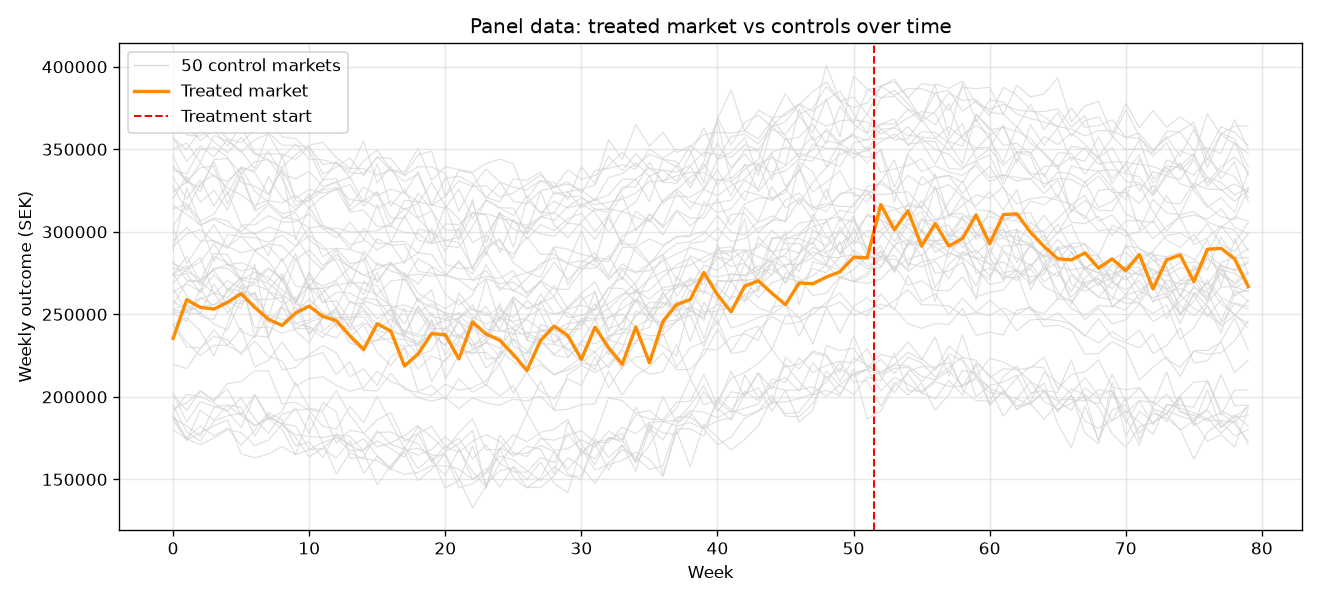
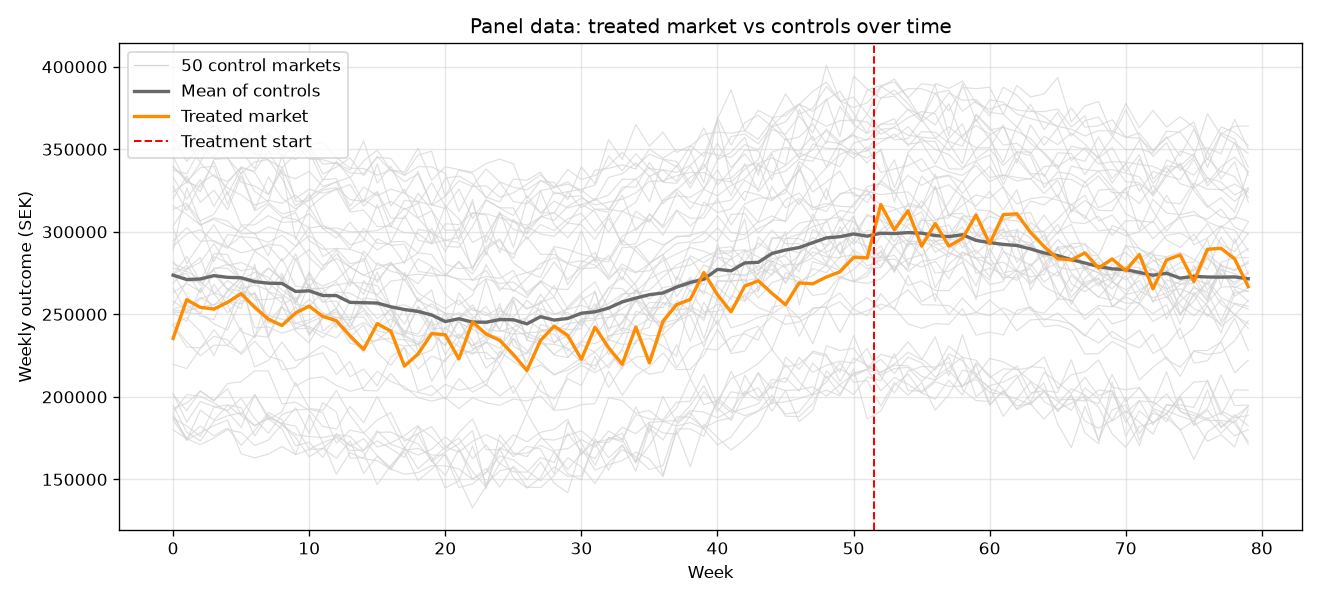
Add mean-of-controls line to panel overview figure

diff --git a/04-bayesian-sc-sdid/fit_compare.py b/04-bayesian-sc-sdid/fit_compare.py
@@ -122,7 +122,9 @@ fig, ax = plt.subplots(figsize=(11, 5))
 weeks = np.arange(T)
 for j in range(N):
     ax.plot(weeks, Y_control[:, j], color="lightgrey", lw=0.7, alpha=0.7)
+control_mean = Y_control.mean(axis=1)
 ax.plot([], [], color="lightgrey", lw=0.7, label=f"{N} control markets")
+ax.plot(weeks, control_mean, color="dimgray", lw=2.0, label="Mean of controls")
 ax.plot(weeks, Y_treated, color="darkorange", lw=2.0, label="Treated market")
 ax.axvline(T0 - 0.5, color="red", linestyle="--", lw=1.2, label="Treatment start")
 ax.set_xlabel("Week")